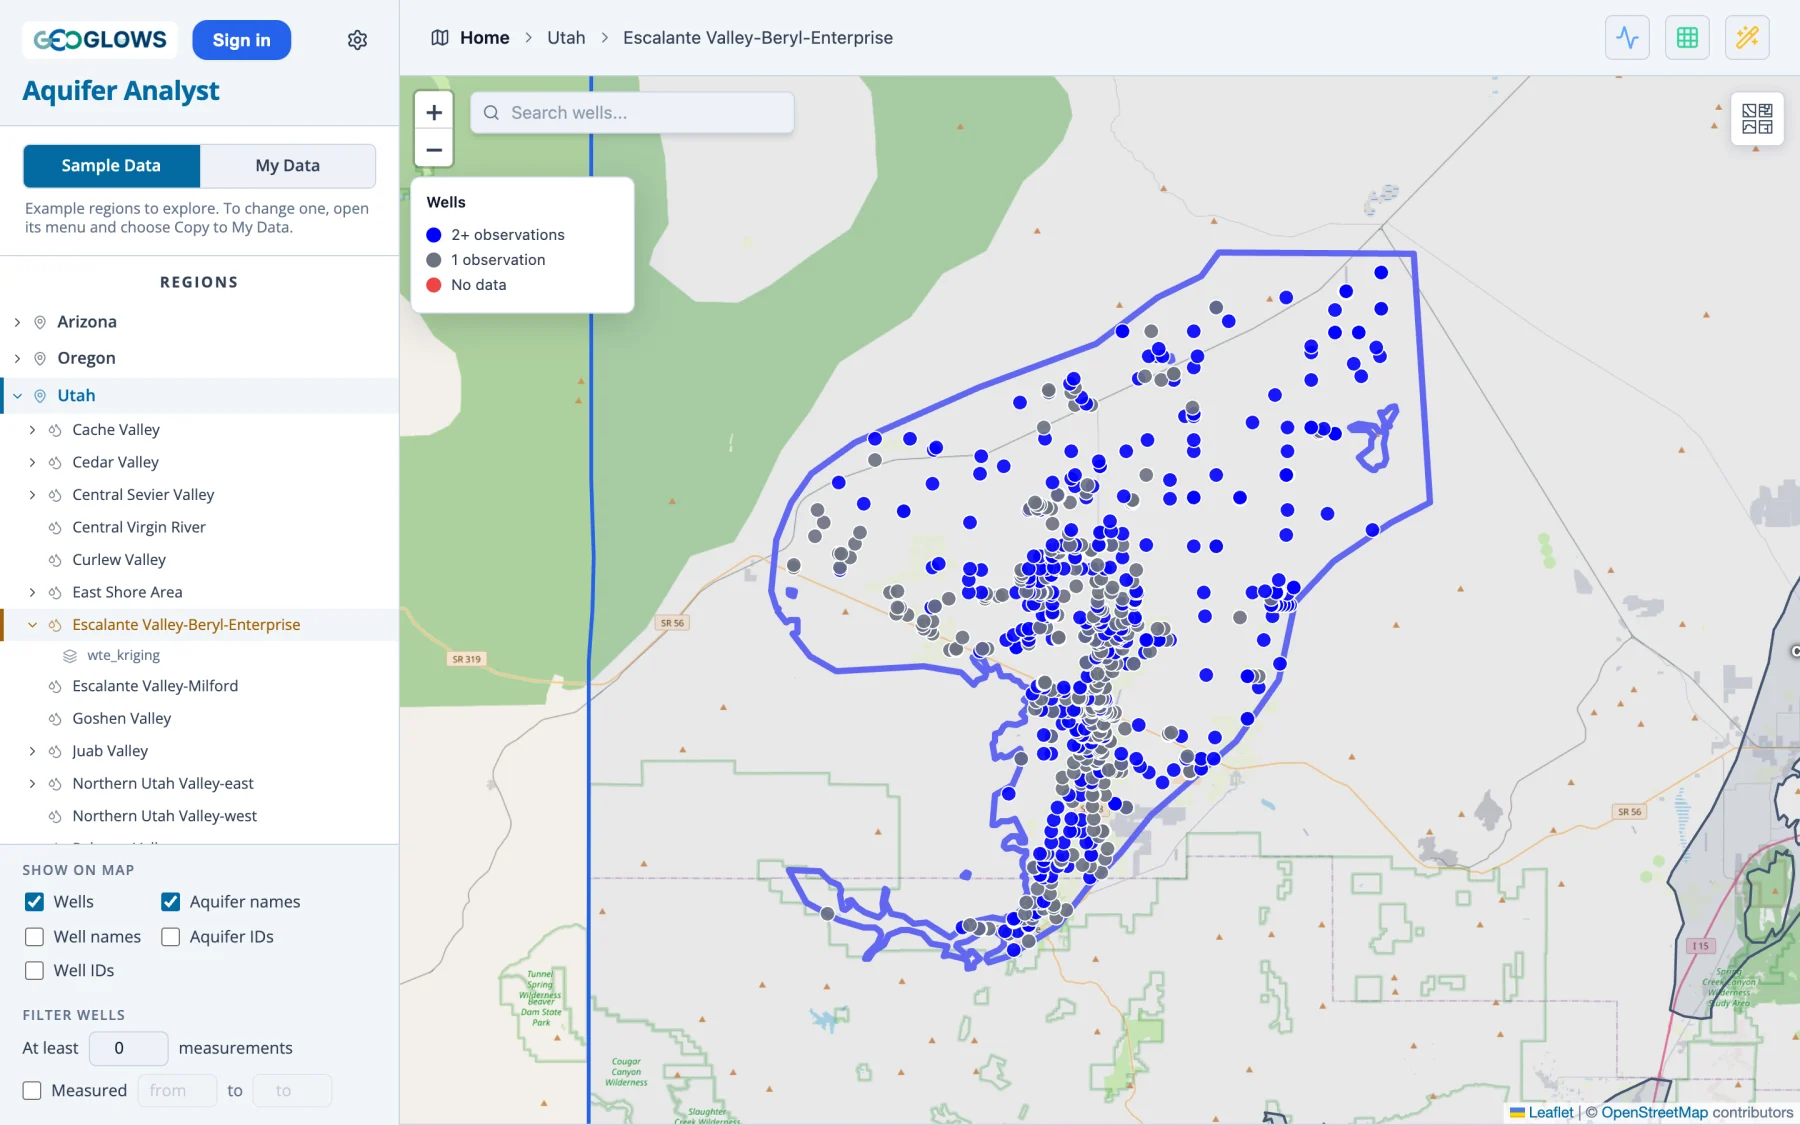
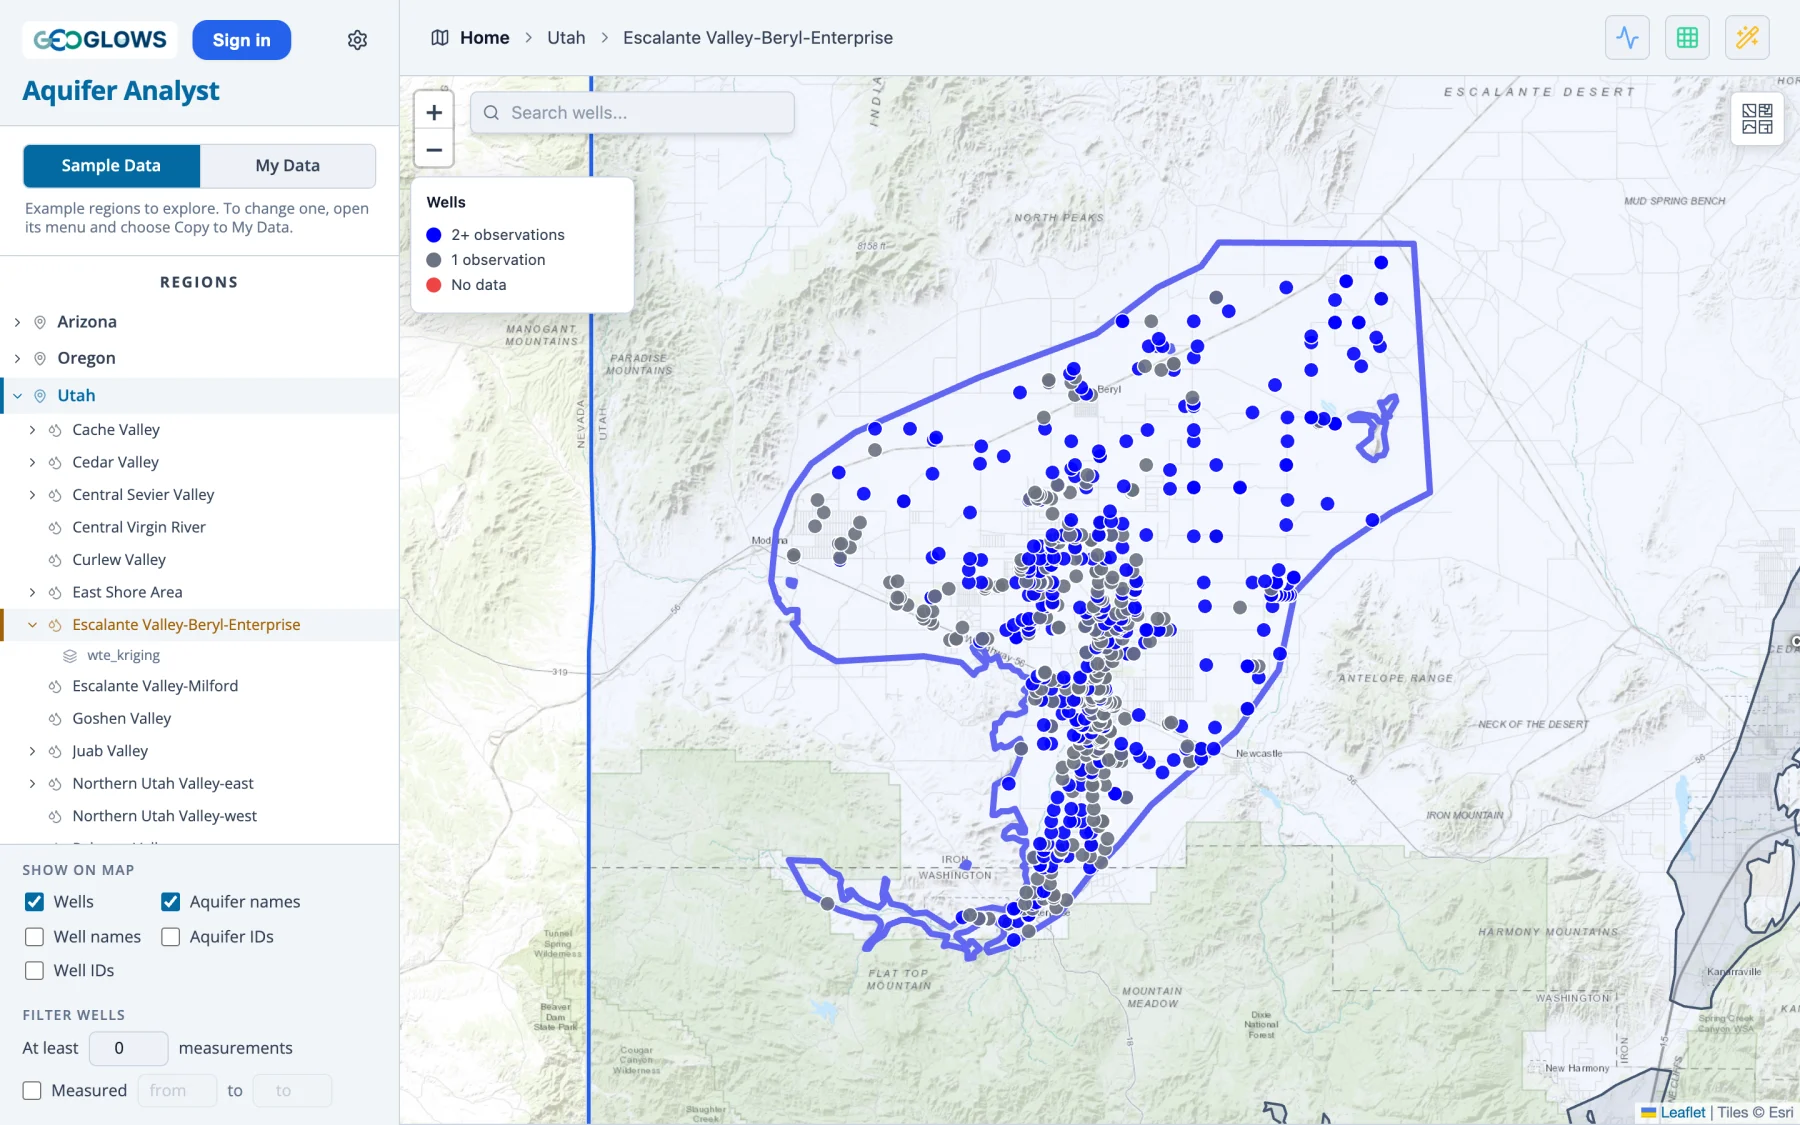
Aquifer Analyst Part 1: screenshots on the Esri basemap, from version 0.9.0
- The app now defaults to Esri Topographic; OpenStreetMap's servers were blocking the screenshot runs
- shots.mjs reads Esri tile URLs, and reports any part of the map left without a tile
- Interface page lists the basemaps in the app's new order

diff --git a/docs/aquiferx/start/interface.en.md b/docs/aquiferx/start/interface.en.md
@@ -40,8 +40,8 @@ The bar along the top of the map shows where you are: **Home**, then the open re
 On the map itself:
 
 - **Zoom** with the **+** and **−** buttons, the mouse wheel, or a pinch on a trackpad. Drag to pan.
-- **Basemap**, the button at the top right, switches the background between OpenStreetMap and six Esri maps: topographic, imagery,
-  streets, light gray, dark gray and terrain.
+- **Basemap**, the button at the top right, switches the background map: Esri's topographic map, which is the default, Esri imagery,
+  streets, light gray, dark gray and terrain, and OpenStreetMap.
 - **Click** a region's outline to open it, an aquifer to show its wells, and a well to plot it. Clicking an empty spot inside the open
   aquifer clears the selected wells, and clicking a part of the region outside every aquifer goes back to the region.
 - **Search wells**, the box at the top left once an aquifer is open, finds a well by name or ID. Use the arrow keys and **Enter**, or
